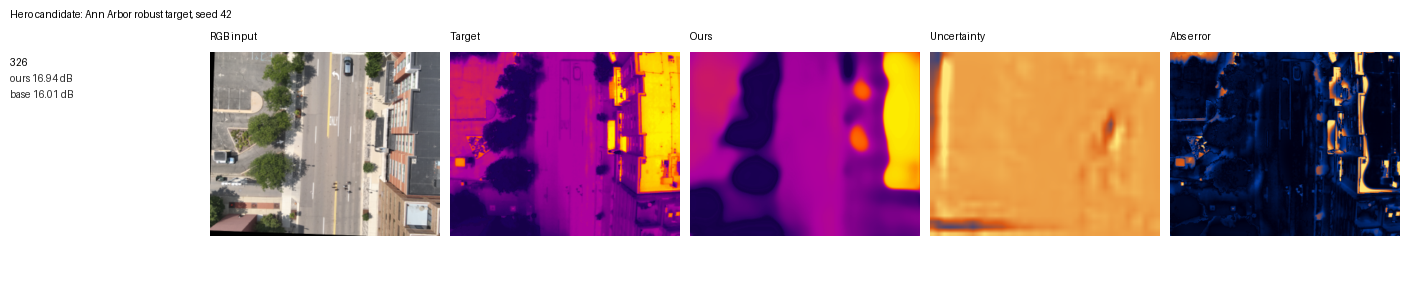
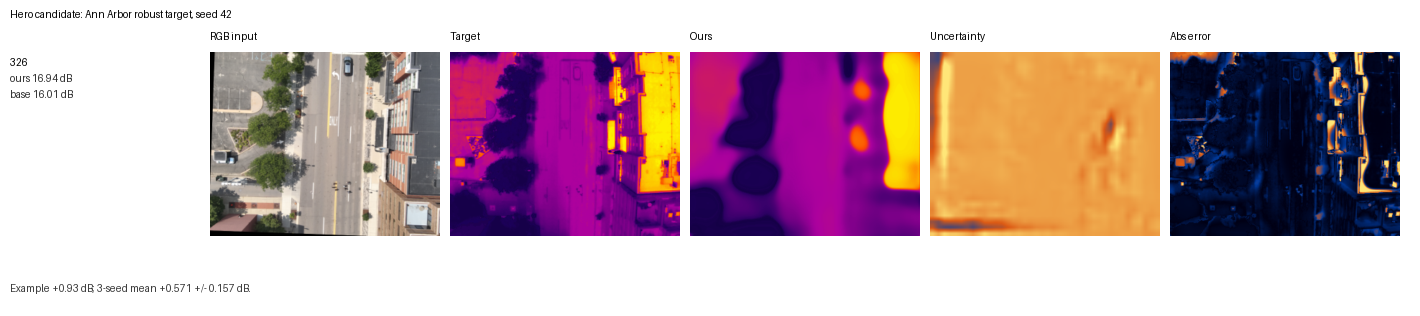
Polish week 9 draft for internal review

diff --git a/build_week9_tables.py b/build_week9_tables.py
@@ -44,7 +44,11 @@ def dataset_table() -> str:
         ["Kust4K", "1970 / 283 / 565", "Raw grayscale TIR", "robust for transfer; raw in legacy qualitative row", fmt(edge.get("kust4k", 0.0), 3), "Official splits minus author-flagged broken stems"],
         ["CART", "1822 / 222 / 238", "Raw grayscale thermal", "robust for transfer; raw in legacy qualitative row", fmt(edge.get("caltech_cart", 0.0), 3), "Full labeled_rgbt_pairs archive"],
     ]
-    return table(["Dataset", "Train / Val / Test", "Target", "Normalization", "Edge mean", "Paper use"], rows)
+    return (
+        table(["Dataset", "Train / Val / Test", "Target", "Normalization", "Edge mean", "Paper use"], rows)
+        + "\n\n"
+        + "Note: Kust4K and CART test counts were spot-checked with `UnifiedR2TDataset.from_roots(..., split=\"test\")`."
+    )
 
 
 def baseline_table() -> str:
@@ -58,7 +62,10 @@ def baseline_table() -> str:
         r = by_label[label]
         ssim = fmt(fnum(r, "final_ssim"), 3) if r.get("final_ssim") else "-"
         corr = fmt(fnum(r, "final_corr"), 3) if r.get("final_corr") else "-"
-        rows.append([label, r["family"], r["seed"], fmt(fnum(r, "final_psnr"), 3), ssim, corr, r["note"]])
+        note = r["note"]
+        if label == "CycleGAN":
+            note += "; single seed, unstable on this small supervised setting"
+        rows.append([label, r["family"], r["seed"], fmt(fnum(r, "final_psnr"), 3), ssim, corr, note])
     rows.append([
         "Ours: ConvNeXt affine, uncertainty-decoupled",
         "paired_regression + affine",
@@ -81,18 +88,39 @@ def main_ablation_table() -> str:
         "swin_affine": "Swin-T affine",
     }
     psnrs = {k: [fnum(r, "final_psnr") for r in rows if r["family"] == k] for k in families}
-    baseline = psnrs["convnext_no_reg"]
+    convnext_baseline = psnrs["convnext_no_reg"]
+    family_baseline = {
+        "convnext_no_reg": psnrs["convnext_no_reg"],
+        "convnext_affine_unc": psnrs["convnext_no_reg"],
+        "convnext_affine_unc_decoupled": psnrs["convnext_no_reg"],
+        "swin_no_reg": psnrs["swin_no_reg"],
+        "swin_affine": psnrs["swin_no_reg"],
+    }
     out_rows = []
     for key, label in families.items():
         m, s = mean_std(psnrs[key])
         if key == "convnext_no_reg":
-            delta = "-"
+            delta_convnext = "-"
         else:
-            paired = [a - b for a, b in zip(psnrs[key], baseline)]
+            paired = [a - b for a, b in zip(psnrs[key], convnext_baseline)]
             dm, ds = mean_std(paired)
-            delta = f"{dm:+.3f} +/- {ds:.3f}"
-        out_rows.append([label, str(len(psnrs[key])), f"{m:.3f} +/- {s:.3f}", delta])
-    return table(["Variant", "Seeds", "PSNR mean +/- std", "Paired delta vs ConvNeXt no-reg"], out_rows)
+            delta_convnext = f"{dm:+.3f} +/- {ds:.3f}"
+        if key in ("convnext_no_reg", "swin_no_reg"):
+            delta_family = "-"
+        else:
+            paired_family = [a - b for a, b in zip(psnrs[key], family_baseline[key])]
+            fm, fs = mean_std(paired_family)
+            delta_family = f"{fm:+.3f} +/- {fs:.3f}"
+        out_rows.append([label, str(len(psnrs[key])), f"{m:.3f} +/- {s:.3f}", delta_convnext, delta_family])
+    return (
+        table(
+            ["Variant", "Seeds", "PSNR mean +/- std", "Delta vs ConvNeXt no-reg", "Same-family registration delta"],
+            out_rows,
+        )
+        + "\n\n"
+        + "Note: Swin-T deltas versus ConvNeXt include the encoder/decoder-family change. "
+        + "The direct Swin-T affine minus Swin-T no-registration delta is shown in the same-family column."
+    )
 
 
 def external_table() -> str:

diff --git a/week8_make_final_figures.py b/week8_make_final_figures.py
@@ -359,6 +359,7 @@ def main() -> None:
         ],
         [f"{hero['name']}"],
         args.tile_width,
+        footnote="Example +0.93 dB; 3-seed mean +0.571 +/- 0.157 dB.",
     )
 
     scored_aa_delta = score_paired_delta(aa_ours, aa_base, aa_ds, device, args.res, args.max_score_items)

diff --git a/paper_draft/main_draft.md b/paper_draft/main_draft.md
@@ -132,11 +132,13 @@ and TIR lists. After those exclusions, the usable split contains 1970 training,
 it does not support a positive within-dataset registration claim in our results:
 the three-seed gain is only `+0.096 +/- 0.067 dB`, consistent with no effect.
 
-CART is used through its labeled RGB/thermal paired subset, with 1822 training,
-222 validation, and 238 test examples under our split. CART shows a larger
-within-dataset registration gain than Kust4K, but the gain is sensitive to the
-weight on the RGB warp-recovery loss. We therefore treat CART as supportive but
-not definitive evidence.
+CART is used through its labeled RGB/thermal paired subset discussed above,
+with 1822 training, 222 validation, and 238 test examples under our split. The
+broader CART material includes additional imagery, but our supervised
+experiments use only this labeled subset. CART shows a larger within-dataset
+registration gain than Kust4K, but the gain is sensitive to the weight on the
+RGB warp-recovery loss. We therefore treat CART as supportive but not
+definitive evidence.
 
 Target normalization is a central part of the protocol. Ann Arbor's recovered
 scalar targets and the external datasets' raw grayscale thermal targets have
@@ -165,13 +167,18 @@ L = L1(y_hat, y)
   + lambda_edge * L_edge(y_hat, y)
   + lambda_affine * ||theta - I||
   + lambda_warp * L1(x_warp, x_aligned)
+  + lambda_unc * mean(u)
+  + lambda_unc_tv * TV(u)
 ```
 
 The final method uses `lambda_warp=0.5` and decouples uncertainty from
 reconstruction. Earlier variants used an uncertainty map to weight the L1 loss
-and regularized the uncertainty mean and total variation. That design was
-repeatable but weaker: it improved over no-registration by `+0.260 +/- 0.021
-dB`, while the uncertainty-decoupled variant improves by `+0.571 +/- 0.157 dB`.
+and regularized the uncertainty mean and total variation. In the locked primary
+rows, both uncertainty regularizer weights are set to zero (`lambda_unc=0`,
+`lambda_unc_tv=0`); the branch still produces a diagnostic map but it does not
+affect the loss. The uncertainty-weighted design was repeatable but weaker: it
+improved over no-registration by `+0.260 +/- 0.021 dB`, while the
+uncertainty-decoupled variant improves by `+0.571 +/- 0.157 dB`.
 
 The synthetic perturbation uses translation, rotation, and scale. In the locked
 amplified protocol, sigma `1.0` corresponds to a maximum translation fraction of
@@ -212,13 +219,16 @@ the controlled three-seed table, though its advantage over Swin-T is modest.
 
 ### 5.4 Main Ablation
 
-Table 3 is the load-bearing ablation. Holding the ConvNeXt family fixed, the
-uncertainty-weighted affine model improves over no-registration by `+0.260 +/-
-0.021 dB`. Decoupling uncertainty from reconstruction raises the gain to
-`+0.571 +/- 0.157 dB`. Swin-T affine does not reliably stack with registration:
-its paired delta over Swin-T no-registration is near-null and high-variance in
-the Week 7 audit. The paper should therefore frame the method as a ConvNeXt
-registration ablation, not as a universal module that improves every backbone.
+Table 3 reports the registration ablation across both ConvNeXt and Swin-T
+families. Within the ConvNeXt family, the uncertainty-weighted affine model
+improves over no-registration by `+0.260 +/- 0.021 dB`. Decoupling uncertainty
+from reconstruction raises the gain to `+0.571 +/- 0.157 dB`. The Swin-T rows
+include a backbone/decoder-family change when compared against ConvNeXt
+no-registration, so the same-family delta is the relevant registration test:
+Swin-T affine does not reliably stack with registration (`-0.064 +/- 0.214 dB`
+versus Swin-T no-registration). The paper should therefore frame the method as
+a ConvNeXt registration ablation, not as a universal module that improves every
+backbone.
 
 ### 5.5 External and Transfer Results
 
@@ -264,9 +274,10 @@ The uncertainty result is also important. Our original uncertainty-weighted
 design sounded plausible: down-weight ambiguous regions and let the model focus
 on reliable pixels. In practice, that weighting reduced PSNR. The best variant
 keeps the uncertainty branch as a diagnostic output but removes it from the
-reconstruction weighting path and sets the uncertainty regularizers to zero.
-This finding should be presented as an ablation-driven design choice rather
-than a theoretical claim about uncertainty.
+reconstruction weighting path. In the locked primary rows, the uncertainty
+regularizer weights are also zero, so the branch is computed for diagnostics but
+does not shape the objective. This finding should be presented as an
+ablation-driven design choice rather than a theoretical claim about uncertainty.
 
 The external results constrain the paper's scope. Kust4K does not support a
 positive within-dataset registration claim across seeds. CART has stronger
@@ -306,3 +317,14 @@ synthetic misalignment protocol, while external datasets expose target and
 loss-balance limitations. This makes the method a defensible robustness module
 and an empirical study of alignment sensitivity, not a universal RGB-to-thermal
 solution.
+
+## Appendix A. Additional Qualitative Examples
+
+Appendix Figure A will include the PSNR-quantile Ann Arbor candidate grid from
+`figures/week8/ann_arbor_candidate_grid_seed42.png`.
+
+## Appendix B. Cross-Dataset Qualitative Context
+
+Appendix Figure B will include `figures/week8/cross_dataset_gallery_seed42.png`.
+This appendix panel is qualitative context only. The Kust4K row is explicitly
+marked as non-significant across seeds.

diff --git a/paper_draft/tables_and_captions.md b/paper_draft/tables_and_captions.md
@@ -8,11 +8,13 @@
 | Kust4K | 1970 / 283 / 565 | Raw grayscale TIR | robust for transfer; raw in legacy qualitative row | 0.029 | Official splits minus author-flagged broken stems |
 | CART | 1822 / 222 / 238 | Raw grayscale thermal | robust for transfer; raw in legacy qualitative row | 0.026 | Full labeled_rgbt_pairs archive |
 
+Note: Kust4K and CART test counts were spot-checked with `UnifiedR2TDataset.from_roots(..., split="test")`.
+
 ## Table 2. Baseline Results
 
 | Method | Family | Seed(s) | PSNR | SSIM | Pearson r | Note |
 | --- | --- | --- | --- | --- | --- | --- |
-| CycleGAN | unpaired | 42 | 8.598 | 0.269 | 0.180 | unpaired CycleGAN, no paired L1 |
+| CycleGAN | unpaired | 42 | 8.598 | 0.269 | 0.180 | unpaired CycleGAN, no paired L1; single seed, unstable on this small supervised setting |
 | pix2pix | paired_gan | 42 | 11.835 | - | - | vanilla paired pix2pix |
 | Small U-Net L1 | paired_l1 | 42 | 12.714 | - | - | pix2pix generator with L1 only |
 | ConvNeXt+U-Net | paired_regression | 42 | 15.637 | 0.536 | 0.812 | existing ConvNeXt+U-Net no-registration baseline |
@@ -21,13 +23,15 @@
 
 ## Table 3. Main Registration Ablation
 
-| Variant | Seeds | PSNR mean +/- std | Paired delta vs ConvNeXt no-reg |
-| --- | --- | --- | --- |
-| ConvNeXt no-registration | 3 | 15.872 +/- 0.217 | - |
-| ConvNeXt affine + uncertainty weighting | 3 | 16.133 +/- 0.199 | +0.260 +/- 0.021 |
-| ConvNeXt affine, uncertainty-decoupled | 3 | 16.444 +/- 0.127 | +0.571 +/- 0.157 |
-| Swin-T no-registration | 3 | 16.228 +/- 0.106 | +0.356 +/- 0.115 |
-| Swin-T affine | 3 | 16.164 +/- 0.297 | +0.292 +/- 0.200 |
+| Variant | Seeds | PSNR mean +/- std | Delta vs ConvNeXt no-reg | Same-family registration delta |
+| --- | --- | --- | --- | --- |
+| ConvNeXt no-registration | 3 | 15.872 +/- 0.217 | - | - |
+| ConvNeXt affine + uncertainty weighting | 3 | 16.133 +/- 0.199 | +0.260 +/- 0.021 | +0.260 +/- 0.021 |
+| ConvNeXt affine, uncertainty-decoupled | 3 | 16.444 +/- 0.127 | +0.571 +/- 0.157 | +0.571 +/- 0.157 |
+| Swin-T no-registration | 3 | 16.228 +/- 0.106 | +0.356 +/- 0.115 | - |
+| Swin-T affine | 3 | 16.164 +/- 0.297 | +0.292 +/- 0.200 | -0.064 +/- 0.214 |
+
+Note: Swin-T deltas versus ConvNeXt include the encoder/decoder-family change. The direct Swin-T affine minus Swin-T no-registration delta is shown in the same-family column.
 
 ## Table 4. External and Transfer Results
 

diff --git a/PLAN.md b/PLAN.md
@@ -211,8 +211,9 @@ Submit primarily to **WACV 2027 R2 (Aug 28, 2026), Algorithms track** only if We
 - **Result:** Week 7 ablations changed the primary method. ConvNeXt
   supervised-affine with uncertainty weighting is repeatable but modest:
   `+0.260 +/- 0.021 dB` over no-registration. Decoupling uncertainty from
-  reconstruction weighting and setting its regularizers to zero gives the
-  stronger uncertainty-decoupled affine method:
+  reconstruction weighting and setting the uncertainty regularizer weights to
+  zero in the locked primary rows gives the stronger uncertainty-decoupled
+  affine method:
   `16.444 +/- 0.127 dB`, or `+0.571 +/- 0.157 dB` over no-registration. It also
   beats Swin-T no-registration by `+0.215 +/- 0.113 dB` in the paired 3-seed
   table. Swin-T affine does not stack reliably (`-0.064 +/- 0.214 dB`). Loss